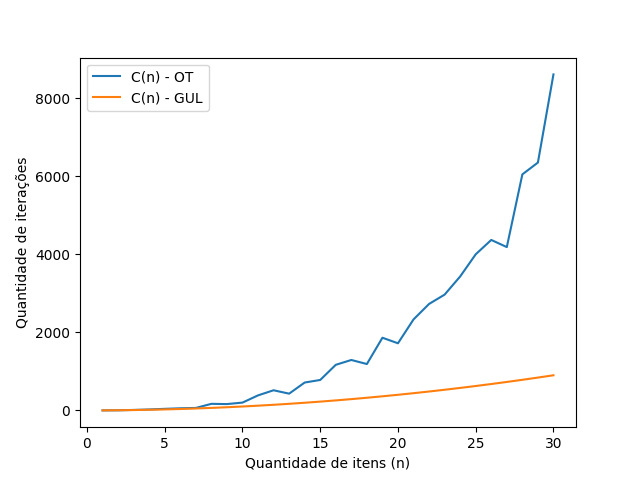
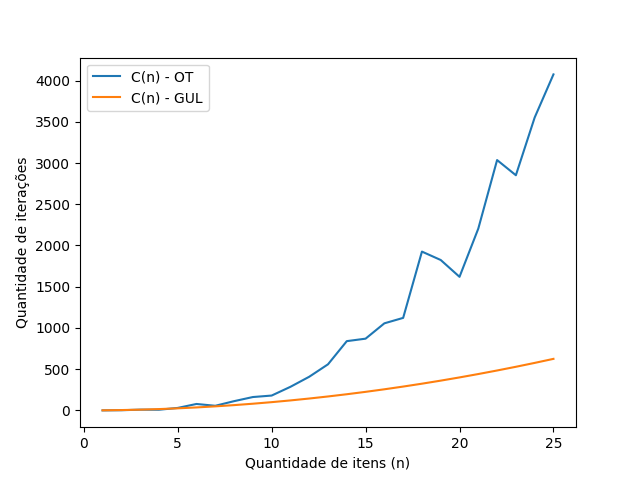
Mod(-): Refatoração

diff --git a/algoritmos/pd.py b/algoritmos/pd.py
@@ -1,4 +1,4 @@
-from busca_exaustiva import busca_exaustiva
+# from algoritmos.busca_exaustiva import busca_exaustiva
 
 
 def pd(elementos: list, n:int ):
@@ -8,21 +8,21 @@ def pd(elementos: list, n:int ):
         sum += elementos[i]
     temp = sum
     sum = int(sum/2)
-    F=[[False]*(sum+1) for i in range(n + 1)]
+    F=[[None]*(sum+1) for i in range(n + 1)]
     
     for i in range(n+1):
         F[i][0] = True
         
-    for i in range(1,sum):
+    for i in range(1,sum+1):
         F[0][i] = False
         
     for i in range(1,n+1):
         for j in range(1,sum+1):
-            F[i][j] = F[i - 1][j]
             execucoes += 1  # Contagem para gráfico de complexidade
             if elementos[i-1] <= j:
-                F[i][j] = F[i][j] or  F[i - 1][j - elementos[i - 1]]
-
+                F[i][j] = F[i-1][j] or  F[i - 1][j - elementos[i - 1]]
+            else:
+                F[i][j] = F[i - 1][j]
     for i in range(sum,-1,-1):
         if (F[n][i] == True):
             min = temp - 2*i
@@ -31,7 +31,7 @@ def pd(elementos: list, n:int ):
     return min, execucoes
 
 if __name__ == '__main__':
-    elementos = [1, 3, 13]
+    elementos = [5,6,2,30,7]
     n = len(elementos)
-    print(busca_exaustiva(elementos, n ))
+    # print(busca_exaustiva(elementos, n ))
     print(pd(elementos, n ))

diff --git a/algoritmos/busca_exaustiva.py b/algoritmos/busca_exaustiva.py
@@ -1,5 +1,5 @@
 from copy import deepcopy
-import sys
+
 def gerar_string_bits(n:int) -> str:
     return ["0" for i in range(n)] 
 
@@ -10,12 +10,20 @@ def somar_1_string_bits(string_bits:list, pos:int) -> None:
     else:
         string_bits[pos] = "1"
 
+def gerar_conjunto_das_partes(n:int) -> list:
+    string_bits = gerar_string_bits(n)
+    strings_bits = []
+    for i in range(2**(n-1)):
+        strings_bits.append(deepcopy(string_bits))
+        somar_1_string_bits(string_bits,n-1)
+    return strings_bits
+
     
 def busca_exaustiva(elementos : list, n:int) -> (int,int):
-    string_bits = gerar_string_bits(n) 
+    strings_bits = gerar_conjunto_das_partes(n)
     min = 10**10
     execucoes = 0
-    for i in range(2**(n-1)): 
+    for string_bits in strings_bits: 
         sum = 0
         for i in range(n):
             execucoes += 1 # Contagem para gráfico de complexidade 
@@ -26,7 +34,6 @@ def busca_exaustiva(elementos : list, n:int) -> (int,int):
         sum = abs(sum)
         if sum < min:
             min = sum
-        somar_1_string_bits(string_bits,n-1) 
     return min,execucoes
         
 if __name__ == '__main__':

diff --git a/algoritmos/guloso.py b/algoritmos/guloso.py
@@ -3,7 +3,7 @@ from math import ceil, log
 
 from numpy import argmax
 
-from pd import pd
+# from algoritmos.pd import pd
 
 
 # def solucao_gulosa(elementos: list, n:int):
@@ -31,10 +31,8 @@ def solucao_gulosa(elementos: list, n:int):
     return sum, execucoes
 
 if __name__ == '__main__':
-    elementos = [30,14,23,2,1,4,3,432,3]
+    elementos = [5,6,2,30,7]
     n = len(elementos)
     print(solucao_gulosa(elementos, n ))
-    print(pd(elementos, n ))
-    
-    
+    # print(pd(elementos, n ))
     # print(solucao_gulosa2(elementos, n ))

diff --git a/main.py b/main.py
@@ -7,7 +7,7 @@ from algoritmos.guloso import solucao_gulosa
 with open('csvs/dados.csv',mode='w',encoding='utf-8',newline='') as nome_arquivo:
     file_csv = csv.writer(nome_arquivo,delimiter=',')
     file_csv.writerow(['n','C(n)','S(n)','paradigma'])
-    for i in range(1,30+1):
+    for i in range(1,25+1):
         print(i)
         elementos = [randint(0,i) for j in range(i)]
         n = i

diff --git a/graficos.py b/graficos.py
@@ -25,6 +25,7 @@ def plot2DComplexidade(dfFB,dfPD,dfGUL,filename):
   plt.savefig(filename)
 
   plt.show()
+  
 def plot2DComplexidade2(dfPD,dfGUL,filename):
   fig = plt.figure()
   ax = fig.add_subplot(111)
